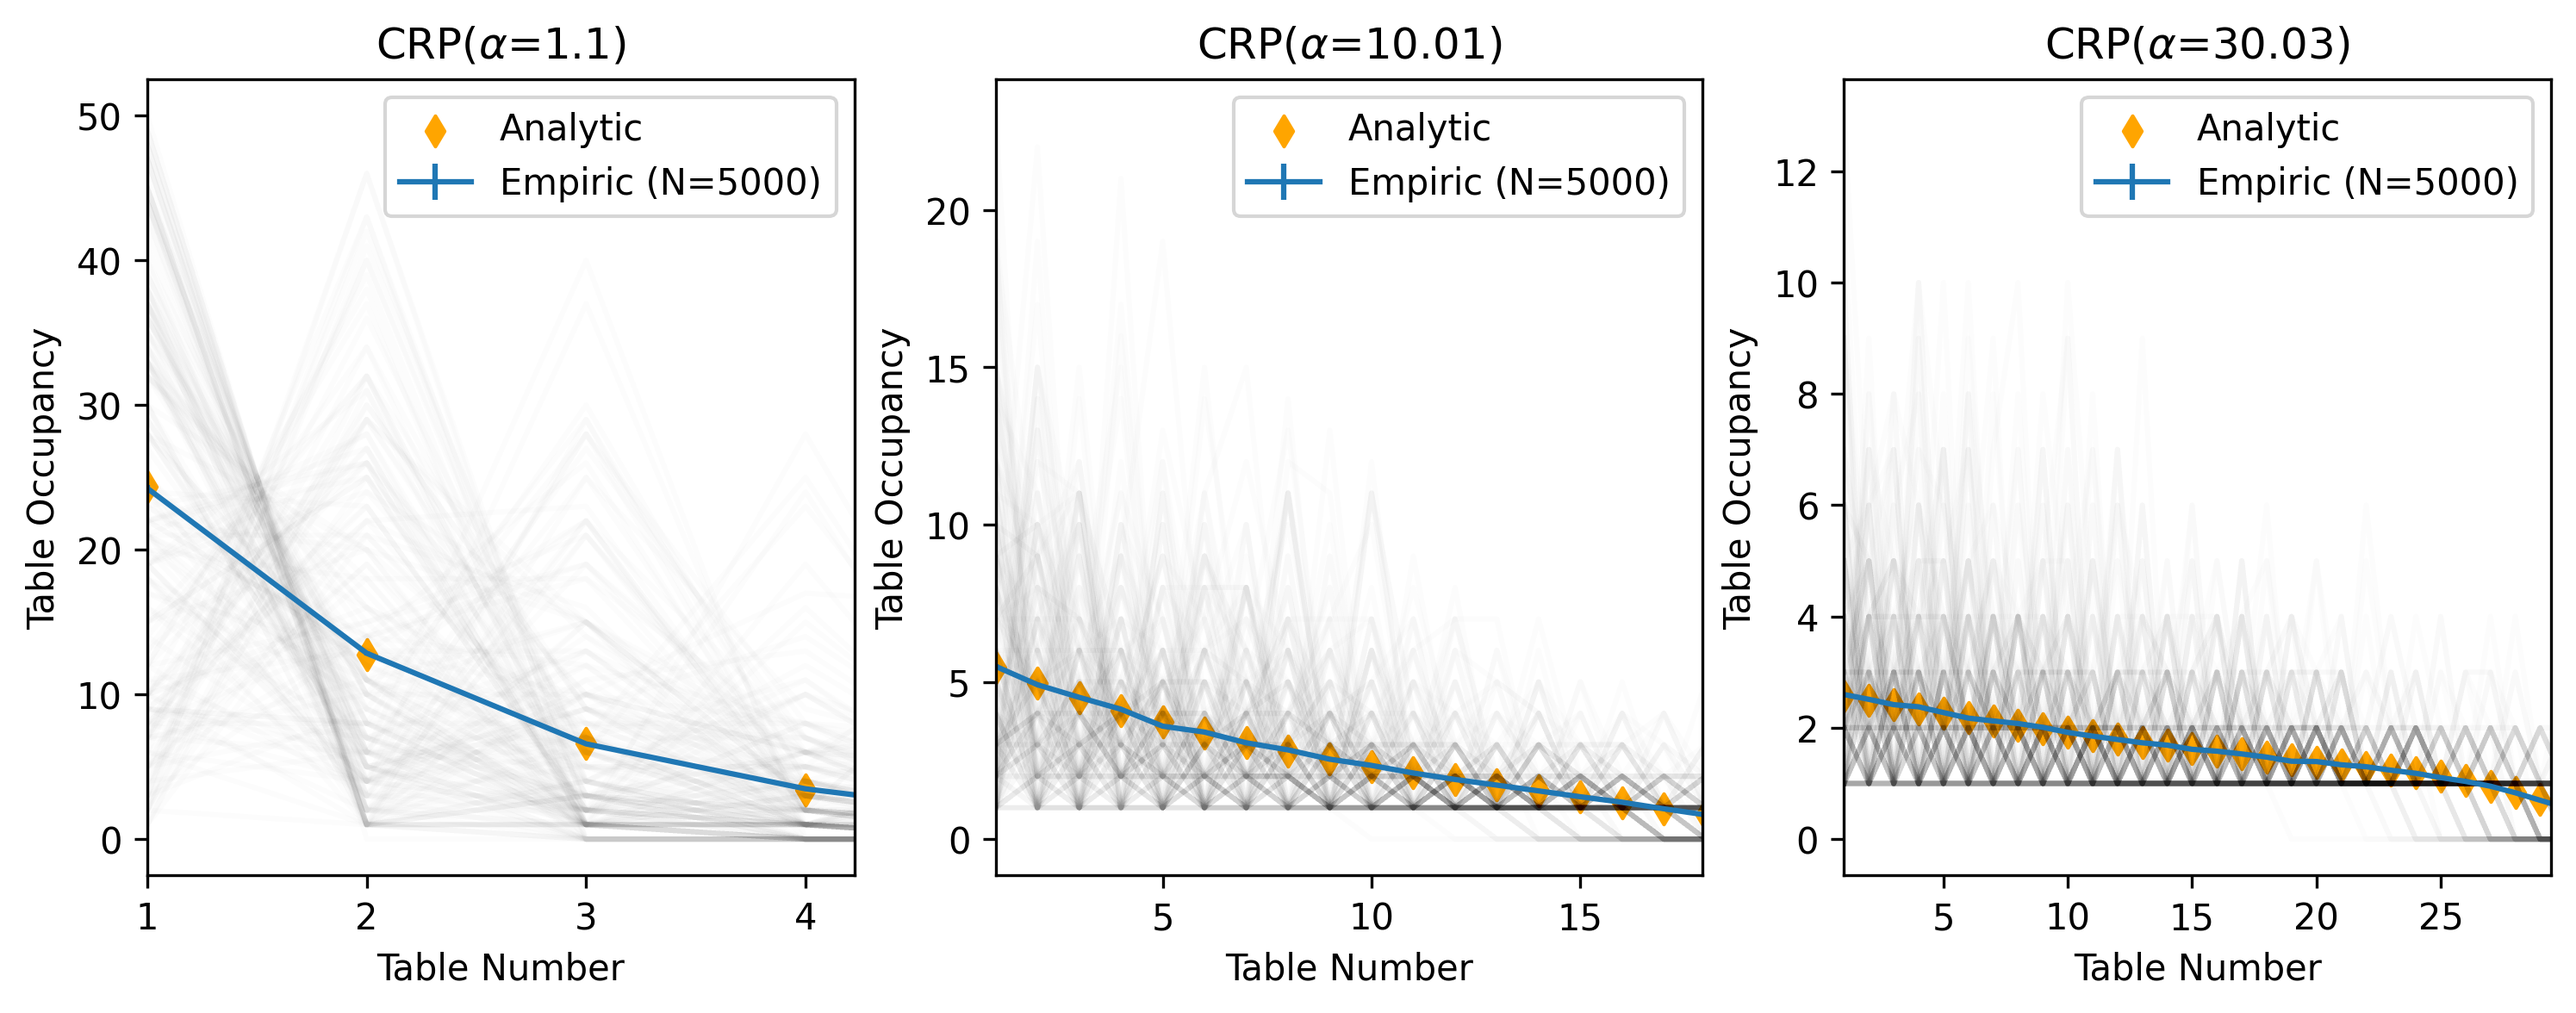
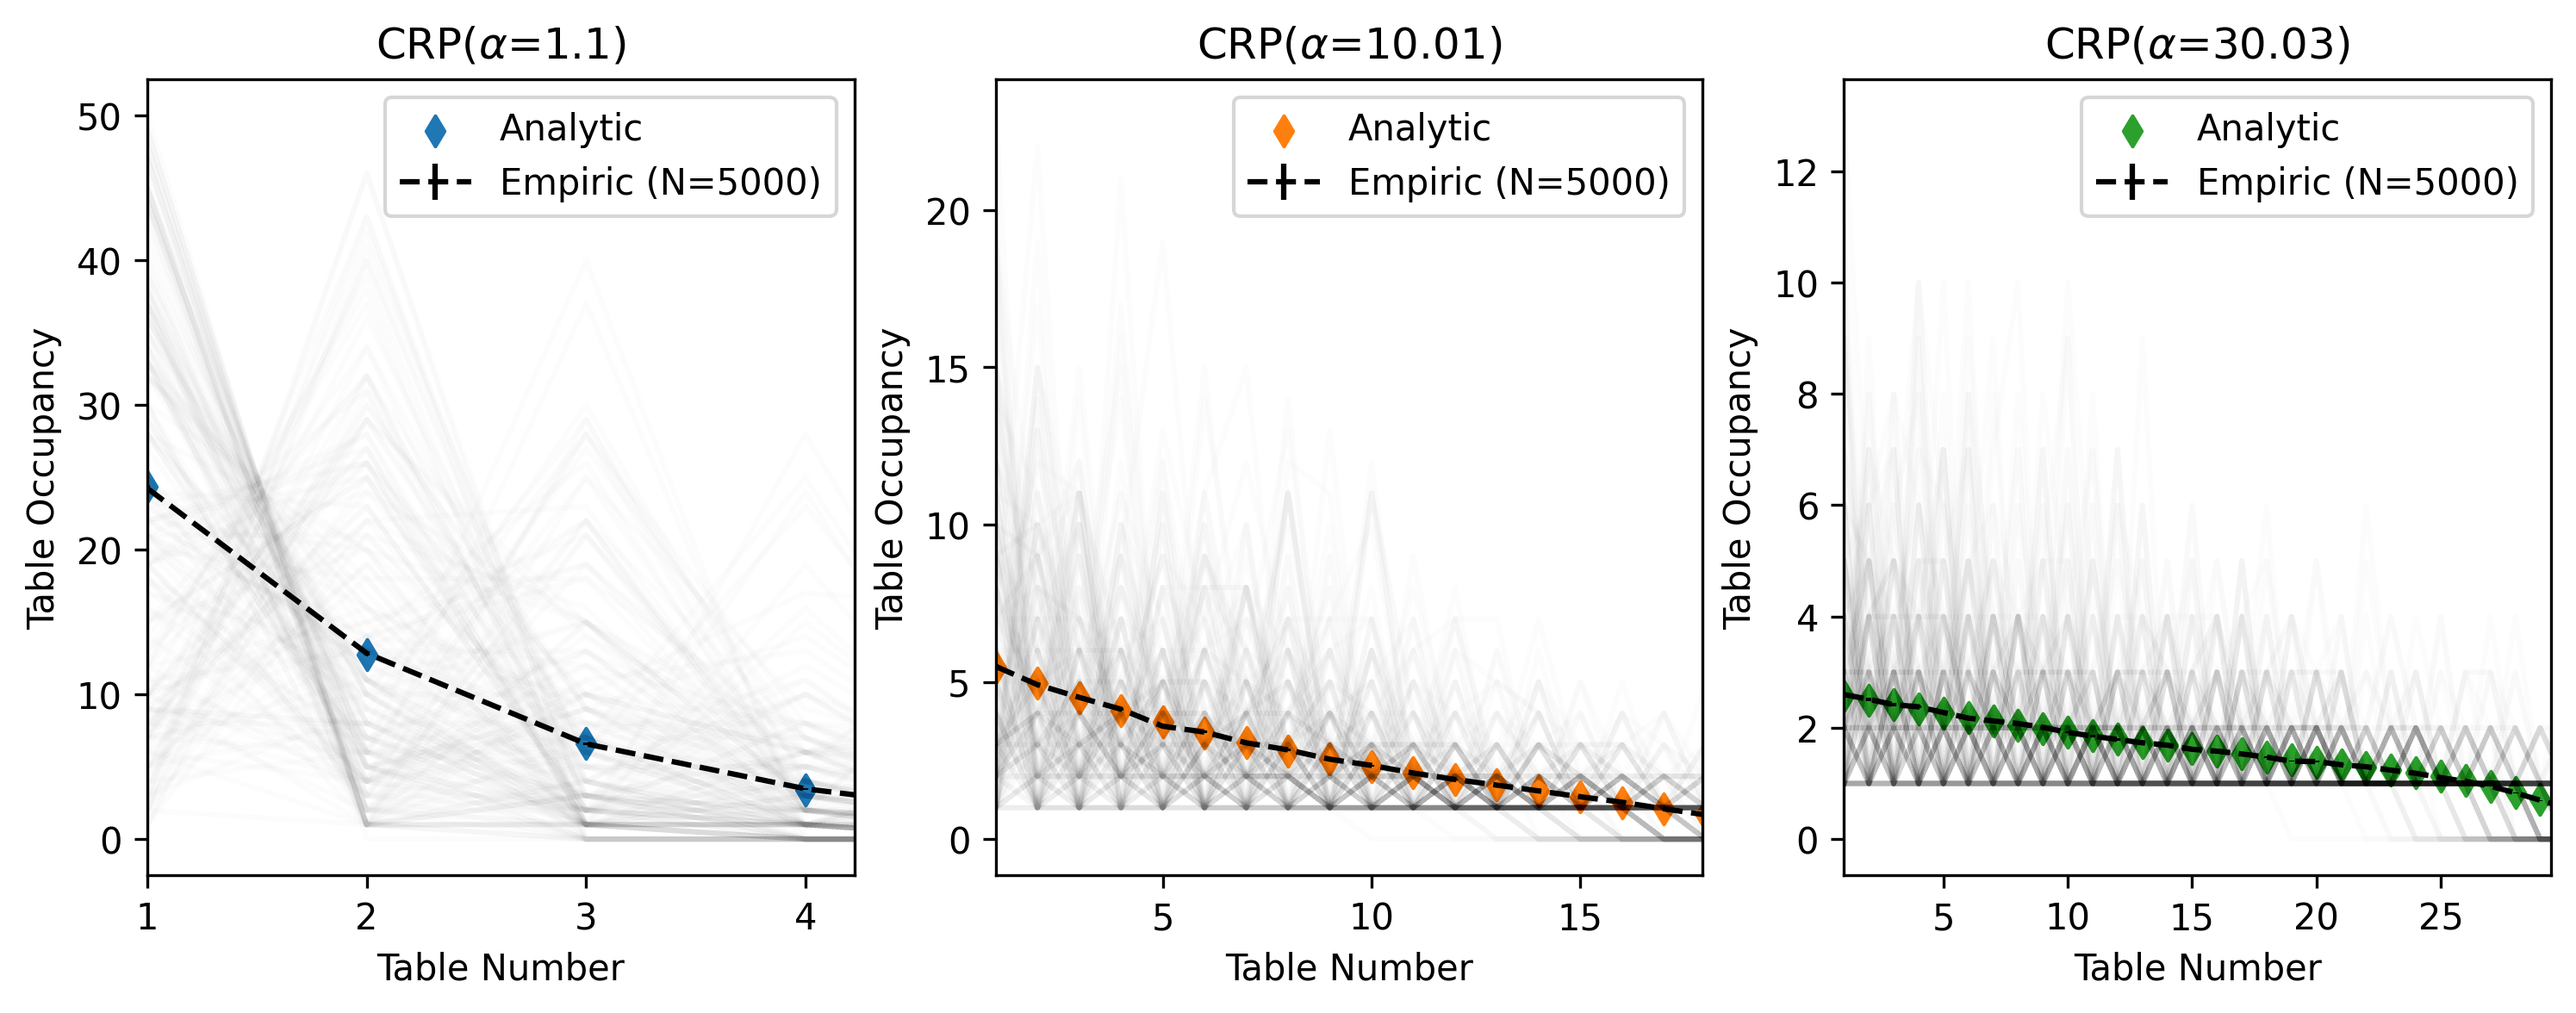
Changed colors to match between plots

diff --git a/exp_00_prior/main.py b/exp_00_prior/main.py
@@ -17,6 +17,11 @@ os.makedirs(plot_dir, exist_ok=True)
 T = 50  # max time
 num_samples = 5000  # number of samples to draw from CRP(alpha)
 alphas = [1.1, 10.01, 30.03]  # CRP parameter
+alphas_color_map = {
+    1.1:    'tab:blue',
+    10.01:  'tab:orange',
+    30.03:  'tab:green'
+}
 crp_samples_by_alpha = {}
 for alpha in alphas:
     crp_empirics_path = os.path.join(exp_dir, f'crp_sample_{alpha}.npy')
@@ -137,13 +142,14 @@ for ax_idx, (alpha, crp_samples) in enumerate(crp_samples_by_alpha.items()):
                           y=empiric_table_occupancies_mean_by_repeat,
                           yerr=empiric_table_occupancies_sem,
                           # linewidth=2,
-                          # fmt='none',
+                          fmt='--',
+                          color='k',
                           label=f'Empiric (N={num_samples})')
     axes[ax_idx].scatter(table_nums[:len(analytical_table_occupancies_by_alpha[alpha])],
                          analytical_table_occupancies_by_alpha[alpha],
                          # '--',
                          marker='d',
-                         color='orange',
+                         color=alphas_color_map[alpha],
                          # linewidth=2,
                          label=f'Analytic')
     print(f'Plotted alpha={alpha}')
